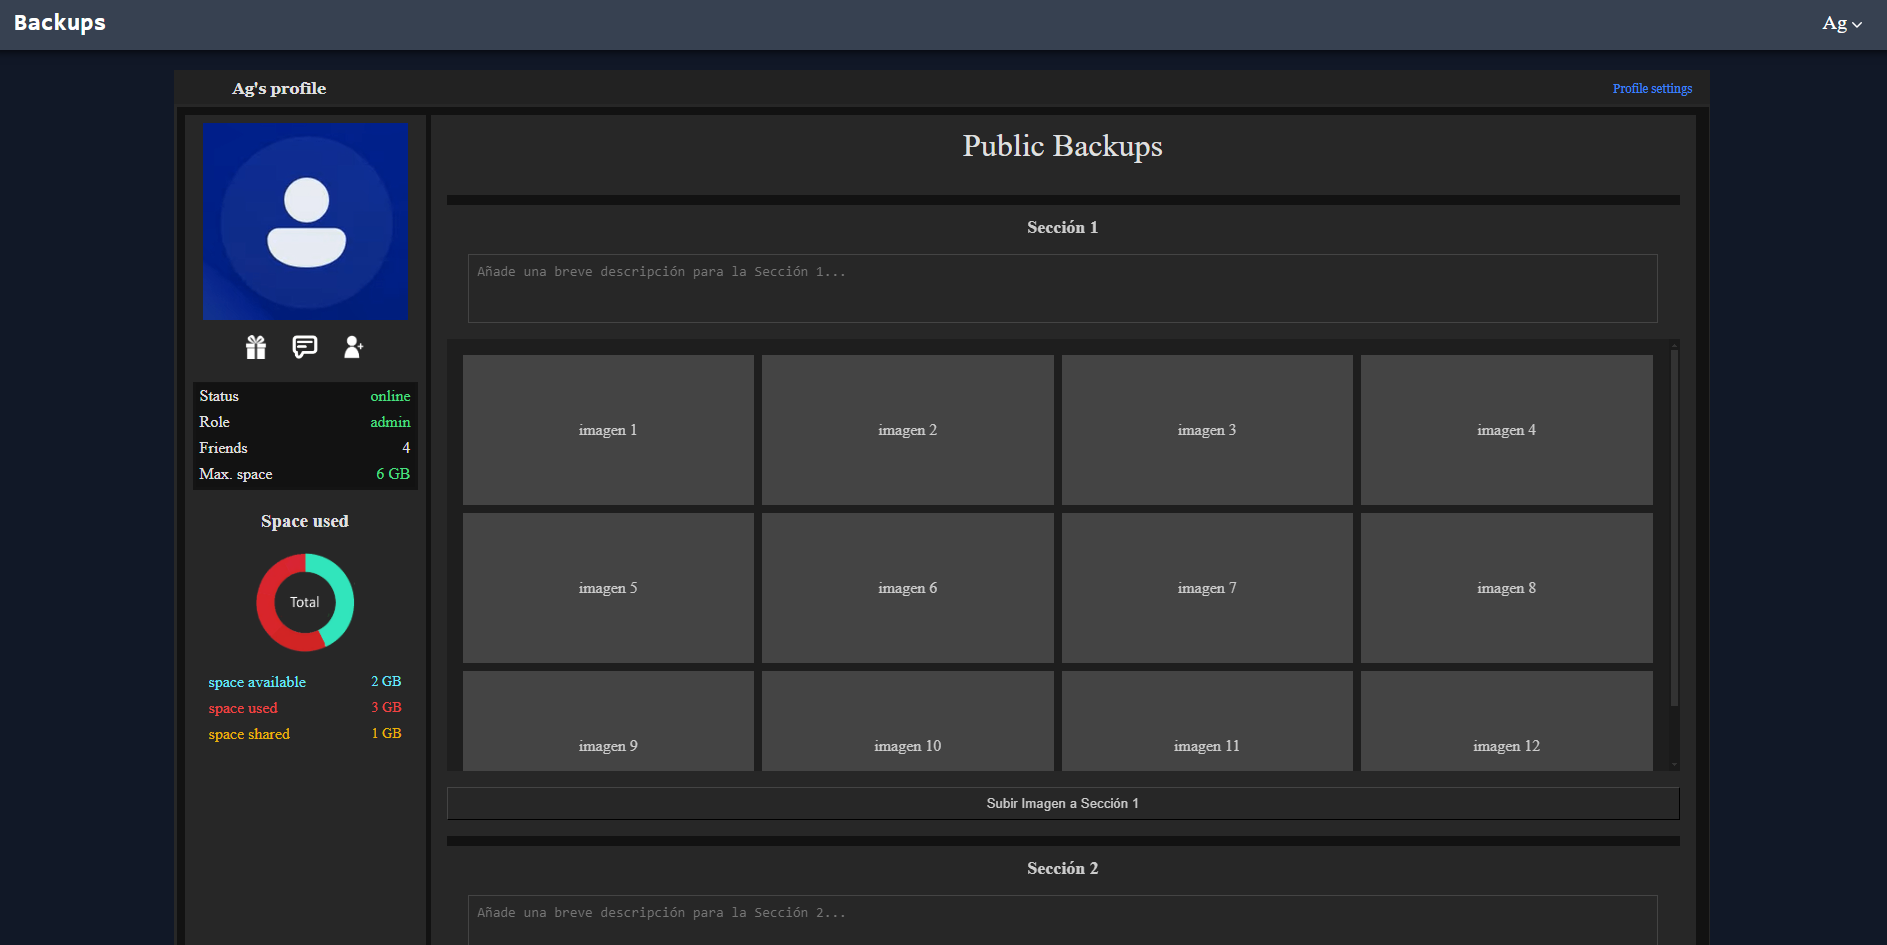
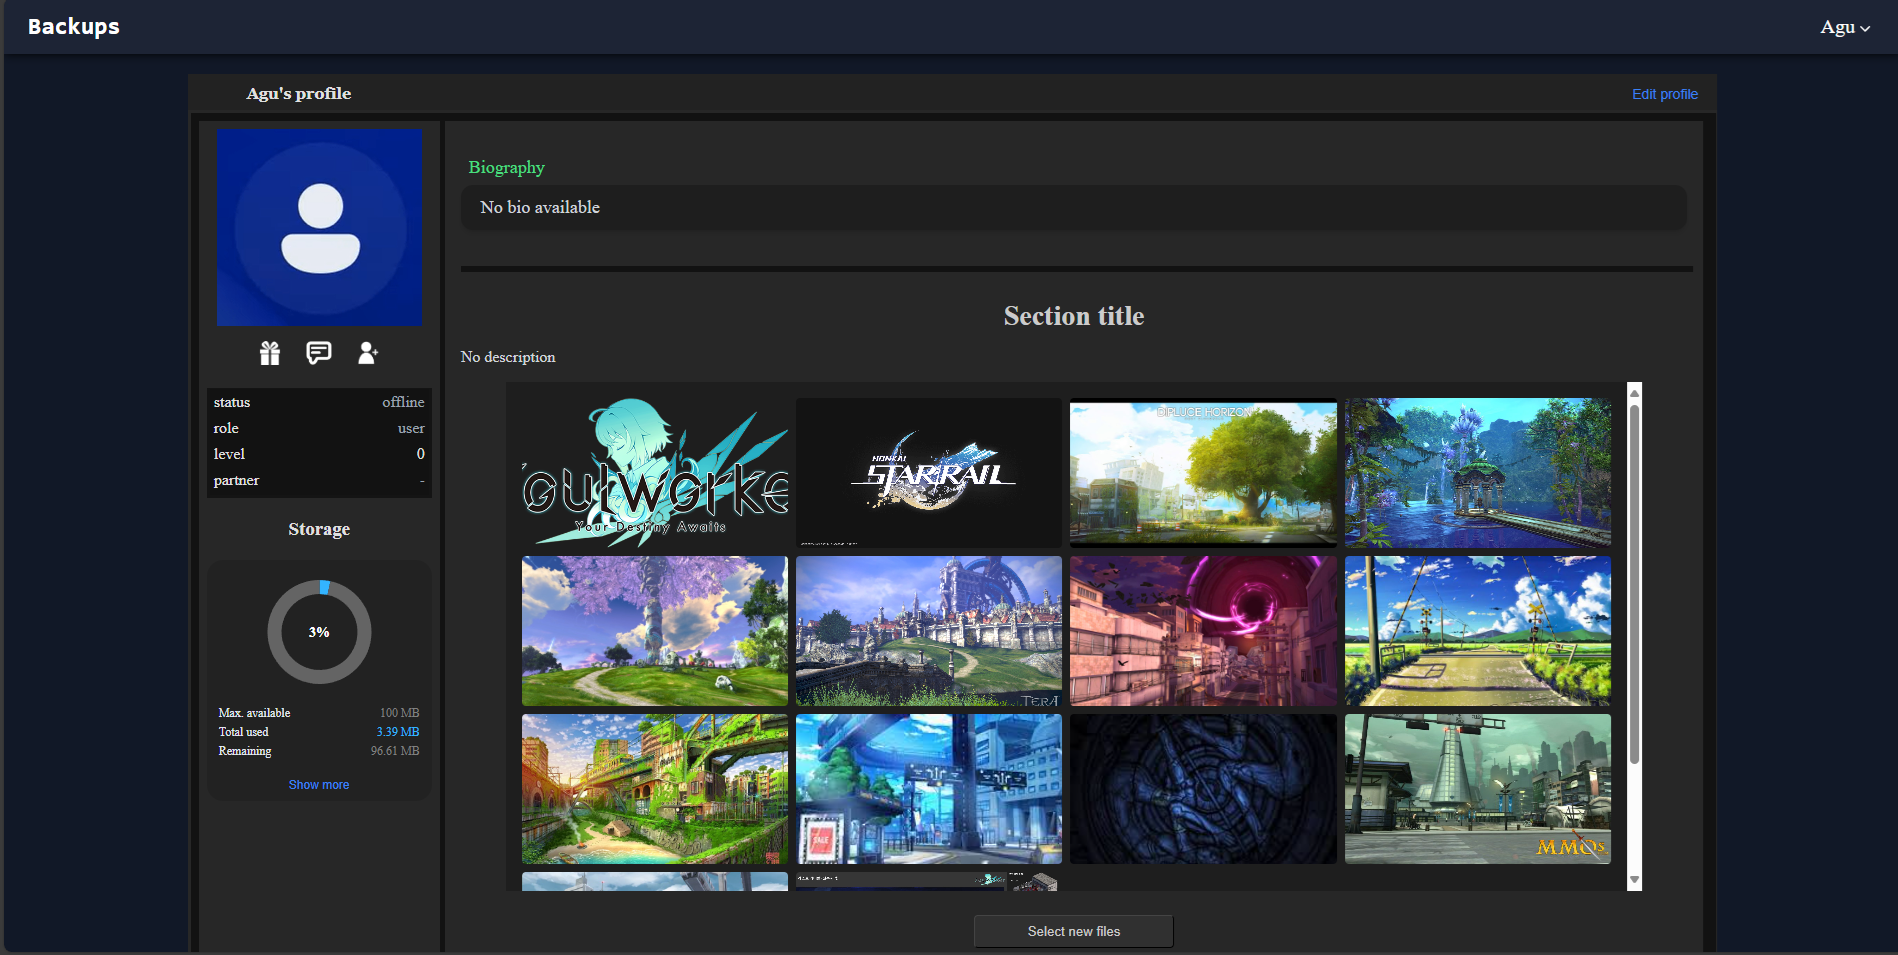
#298 Fixed general problems related with the first setup of the repo

diff --git a/backend/src/infraestructure/adapters/repositories/MysqlUserRepository.ts b/backend/src/infraestructure/adapters/repositories/MysqlUserRepository.ts
@@ -1,7 +1,10 @@
 import promisePool from "../../../db/database.js";
 import { User } from "../../../domain/entities/User.js";
-import { UserRepository, NameAndEmailCheckResult } from "../../../domain/ports/repositories/UserRepository.js";
-import { RowDataPacket, ResultSetHeader , Connection } from "mysql2/promise";
+import {
+  UserRepository,
+  NameAndEmailCheckResult,
+} from "../../../domain/ports/repositories/UserRepository.js";
+import { RowDataPacket, ResultSetHeader, Connection } from "mysql2/promise";
 
 interface UserRow extends RowDataPacket {
   namedb: string;
@@ -35,13 +38,13 @@ export class MysqlUserRepository implements UserRepository {
         "SELECT * FROM users WHERE id = ?",
         [id]
       );
-  
+
       if (rows.length === 0) {
         return null;
       }
-  
+
       const row = rows[0];
-  
+
       return new User(row.id, row.namedb, row.emaildb, row.passdb, row.role);
     } catch (error) {
       console.error("Error retrieving user from database:", error);
@@ -91,31 +94,33 @@ export class MysqlUserRepository implements UserRepository {
     email: string,
     pass: string,
     role: "user" | "admin"
-  ): Promise<void> {
+  ): Promise<number> {
     const connection = await promisePool.getConnection();
     try {
       await connection.beginTransaction();
 
-      //insert new user in users table
+      // Insert new user in users table
       const [userResult] = await connection.execute<ResultSetHeader>(
         "INSERT INTO users (namedb, emaildb, passdb, role) VALUES (?, ?, ?, ?)",
         [name, email, pass, role]
       );
 
-      //add foreign key to users_profile table
       const userId = userResult.insertId;
+
+      // Add foreign key to users_profile table
       await connection.execute(
         "INSERT INTO users_profile (fk_users_id) VALUES (?)",
         [userId]
       );
 
-      //add foreign key to users_profile_sections table
+      // Add foreign key to users_profile_sections table
       await connection.execute(
         "INSERT INTO users_profile_sections (fk_users_id) VALUES (?)",
         [userId]
       );
 
       await connection.commit();
+      return userId;
     } catch (error) {
       await connection.rollback();
       console.error("Error adding new user and profile", error);

diff --git a/backend/src/application/useCases/RegisterUserUseCase.ts b/backend/src/application/useCases/RegisterUserUseCase.ts
@@ -1,10 +1,14 @@
-import { UserRepository } from "../../domain/ports/repositories/UserRepository.js";
-import { NameAndEmailCheckResult } from "../../domain/ports/repositories/UserRepository.js";
+import { UserRepository } from "@/domain/ports/repositories/UserRepository.js";
+import { StorageUsageRepository } from "@/domain/ports/repositories/StorageUsageRepository.js";
+import { NameAndEmailCheckResult } from "@/domain/ports/repositories/UserRepository.js";
+
+const DEFAULT_MAX_STORAGE = 104857600; // 100MB
 
 export class RegisterUserUseCase {
   constructor(
     private readonly userRepo: UserRepository,
-    private readonly encrypt: (passwordPlain: string) => Promise<string>,
+    private readonly storageRepo: StorageUsageRepository,
+    private readonly encrypt: (passwordPlain: string) => Promise<string>
   ) {}
 
   /** Register new user into the db */
@@ -12,22 +16,31 @@ export class RegisterUserUseCase {
     const hashedPassword = await this.encrypt(password);
     const userData = { user, email, hashedPassword };
 
-    const nameAndEmail: NameAndEmailCheckResult = await this.userRepo.isNameOrEmailTaken(userData.user, userData.email);
+    const nameAndEmail: NameAndEmailCheckResult =
+      await this.userRepo.isNameOrEmailTaken(userData.user, userData.email);
 
     if (nameAndEmail.isTaken) {
       if (nameAndEmail.userTaken && !nameAndEmail.emailTaken) {
         throw new Error("USERNAME_TAKEN");
       }
-
       if (!nameAndEmail.userTaken && nameAndEmail.emailTaken) {
         throw new Error("EMAIL_TAKEN");
       }
-
       if (nameAndEmail.userTaken && nameAndEmail.emailTaken) {
         throw new Error("USERNAME_AND_EMAIL_TAKEN");
       }
     }
 
-    await this.userRepo.insertNewUser(userData.user, userData.email, userData.hashedPassword, "user");
+    // Insert user and get its ID
+    const userId = await this.userRepo.insertNewUser(
+      userData.user,
+      userData.email,
+      userData.hashedPassword,
+      "user"
+    );
+
+    // Initialize storage and limnits usage
+    await this.storageRepo.addToUsedStorage(userId, 0);
+    await this.storageRepo.setMaxStorage(userId, DEFAULT_MAX_STORAGE);
   }
 }

diff --git a/backend/src/infraestructure/adapters/repositories/MysqlStorageUsageRepository.ts b/backend/src/infraestructure/adapters/repositories/MysqlStorageUsageRepository.ts
@@ -16,6 +16,18 @@ export class MysqlStorageUsageRepository implements StorageUsageRepository {
     await promisePool.execute(query, [userId, delta]);
   }
 
+  async setMaxStorage(
+    userId: number | string,
+    maxBytes: number
+  ): Promise<void> {
+    const query = `
+    INSERT INTO user_storage_limits (user_id, max_bytes)
+    VALUES (?, ?)
+    ON DUPLICATE KEY UPDATE max_bytes = VALUES(max_bytes)
+  `;
+    await promisePool.execute(query, [userId, maxBytes]);
+  }
+
   async decreaseFromUsedStorage(
     userId: number | string,
     delta: number
@@ -54,18 +66,13 @@ export class MysqlStorageUsageRepository implements StorageUsageRepository {
     userId: number | string,
     delta: number
   ): Promise<boolean> {
-    const query = `
-      INSERT INTO user_storage_usage (user_id, total_bytes)
-      VALUES (?, 0)
-      ON DUPLICATE KEY UPDATE total_bytes = total_bytes`;
-    await promisePool.execute(query, [userId]);
-
     const updateQuery = `
-      UPDATE user_storage_usage u
-      JOIN user_storage_limits l ON l.user_id = u.user_id
-      SET u.total_bytes = u.total_bytes + ?
-      WHERE u.user_id = ?
-        AND (u.total_bytes + ?) <= l.max_bytes`;
+    UPDATE user_storage_usage u
+    JOIN user_storage_limits l ON l.user_id = u.user_id
+    SET u.total_bytes = u.total_bytes + ?
+    WHERE u.user_id = ?
+      AND (u.total_bytes + ?) <= l.max_bytes
+  `;
     const [result] = await promisePool.execute<ResultSetHeader>(updateQuery, [
       delta,
       userId,

diff --git a/frontend/src/features/profile/components/StorageGraph.tsx b/frontend/src/features/profile/components/StorageGraph.tsx
@@ -9,8 +9,8 @@ type Props = {
   remainingBytes: number;
 };
 
-const COLOR_USED = "#ffc533";
-const COLOR_FREE = "#3a3a3a";
+const COLOR_USED = "#33b4ffff";
+const COLOR_FREE = "#646464ff";
 
 export const StorageGraph = memo(function StorageGraph({
   usedBytes,
@@ -77,19 +77,19 @@ export const StorageGraph = memo(function StorageGraph({
 
       <div className="mt-2 flex flex-col w-full text-[12px]">
         <div className="flex my-[2px] justify-between items-center w-full">
-          <span className="px-1">total available</span>
+          <span className="px-1">Max. available</span>
           <span className="px-1" style={{ color: "gray" }}>
             {limit > 0 ? formatBytes(limit) : "—"}
           </span>
         </div>
         <div className="flex my-[2px] justify-between items-center w-full">
-          <span className="px-1">total used</span>
+          <span className="px-1">Total used</span>
           <span className="px-1" style={{ color: COLOR_USED }}>
             {formatBytes(used)}
           </span>
         </div>
         <div className="flex my-[2px] justify-between items-center w-full">
-          <span className="px-1">remaining</span>
+          <span className="px-1">Remaining</span>
           <span className="px-1" style={{ color: "gray" }}>
             {limit > 0 ? formatBytes(remaining) : "—"}
           </span>

diff --git a/backend/src/domain/ports/repositories/StorageUsageRepository.ts b/backend/src/domain/ports/repositories/StorageUsageRepository.ts
@@ -6,7 +6,13 @@ export interface StorageUsageRepository {
    * @param delta - The number of bytes to add to the user's usage
    */
   addToUsedStorage(userId: number | string, delta: number): Promise<void>;
-
+  /**
+   * Sets or updates the maximum storage quota for the user
+   *
+   * @param userId - Id of current user
+   * @param maxBytes - Maximum storage in bytes to set for the user
+   */
+  setMaxStorage(userId: number | string, maxBytes: number): Promise<void>;
   /**
    * Decreases the user's storage usage for files by a specified number of bytes
    * Ensures the result does not go below zero

diff --git a/backend/src/interfaces/http/controllers/registrationController.ts b/backend/src/interfaces/http/controllers/registrationController.ts
@@ -1,10 +1,12 @@
 import { Request, Response } from "express";
 import { RegisterUserUseCase } from "../../../application/useCases/RegisterUserUseCase.js";
 import { MysqlUserRepository } from "../../../infraestructure/adapters/repositories/MysqlUserRepository.js";
+import { MysqlStorageUsageRepository } from "../../../infraestructure/adapters/repositories/MysqlStorageUsageRepository.js";
 import { encrypt } from "../../../infraestructure/auth/handlePassword.js";
 
 const registerUserUseCase = new RegisterUserUseCase(
   new MysqlUserRepository(),
+  new MysqlStorageUsageRepository(),
   encrypt
 );
 

diff --git a/backend/src/domain/ports/repositories/UserRepository.ts b/backend/src/domain/ports/repositories/UserRepository.ts
@@ -32,5 +32,5 @@ export interface UserRepository {
 
   /** Inserts a new user into the database */
   
-  insertNewUser(name: string, email: string, pass: string, role: "user" | "admin"): Promise<void>;
+  insertNewUser(name: string, email: string, pass: string, role: "user" | "admin"): Promise<number>;
 }

diff --git a/backend/src/db/database.ts b/backend/src/db/database.ts
@@ -3,7 +3,7 @@ import mysql from 'mysql2/promise';
 
 const pool = mysql.createPool({
   host: config.dbHost,
-  database: config.dbDatabase,
+  database: config.dbSchema,
   user: config.dbUser,
   password: config.dbPassword,
   waitForConnections: true,

diff --git a/README.md b/README.md
@@ -13,10 +13,7 @@ private or public. You'll need to be validated as a user to access.
 
 many features aren't avialable yet since i'm working on them
 
-### some previews of sections (changes on the frontend will be made)
-
-Dashboard section
-![Showcase](DashboardShowcase.png)
+### Profile preview (more changes in the UI/UX are expected)
 
 Profile section
 ![Showcase](Profile_Showcase.png)
